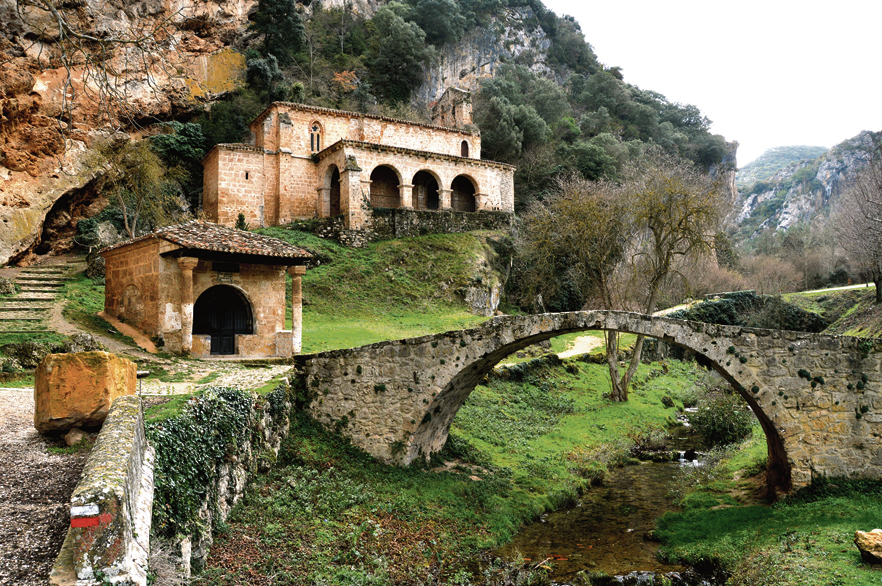
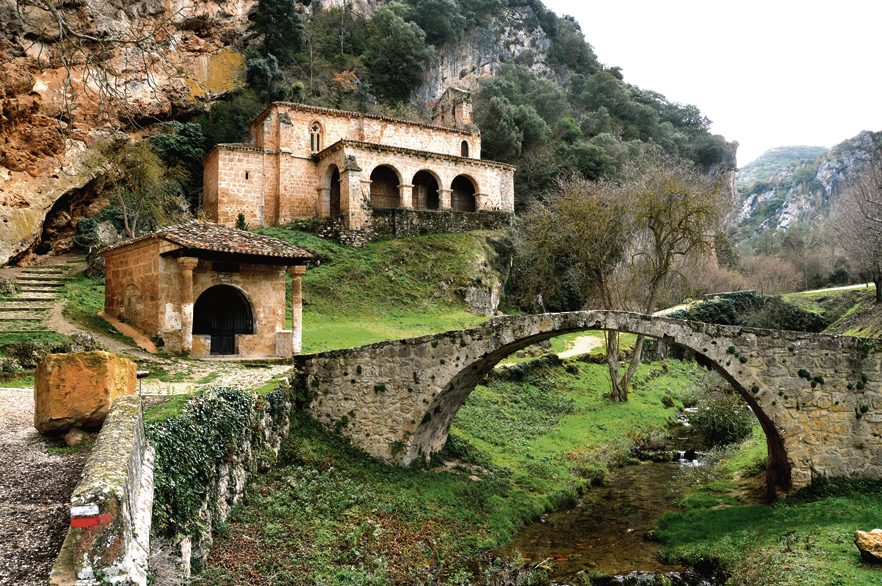
Usa las fotos reales de los cinco destinos
Las tarjetas de Frías, Tobera, la cascada de Pedrosa, Ojo Guareña y
Puentedey pasan de ilustración a fotografía.

Antes de entrar, las fotos se han preparado para la app:

- Frías venía cuadrada (2304×2304) y Puentedey en 4:3 y 6,9 MB. Las dos se
  recortan a 16:9 —en Frías dejando arriba la torre del castillo, en
  Puentedey quitando cielo para centrar el arco— y se reducen a 1600 px.
- Reencodadas a JPEG progresivo: de 3,0 MB y 6,9 MB a unos 410 KB cada una.
  Tobera baja de 746 a 176 KB. Las cinco suman ahora ~1,4 MB en lugar de 11.

Las ilustraciones SVG se quedan en el repo por si alguna foto se sustituye.
Caché del Service Worker a v11.

Pendiente: créditos de autor y licencia de cada foto en la pestaña Info.

Claude-Session: https://claude.ai/code/session_014aL5LEpVaLsFkLFnotR2uJ

diff --git a/data.js b/data.js
@@ -2,8 +2,8 @@
 // Los horarios son ORIENTATIVOS a propósito: la app los muestra como tales.
 // La única hora cerrada es el pase de la cueva-ermita de San Bernabé,
 // domingo 13 a las 11:30, que ya está pagado.
-// Las imágenes son ilustraciones propias (assets/images). Para usar fotos
-// reales basta con dejar el archivo en esa carpeta y cambiar aquí la ruta.
+// Las fotos están en assets/images. Las ilustraciones SVG originales siguen
+// en esa carpeta por si alguna foto se quiere sustituir.
 window.TRIP_DATA = {
   "trip": {
     "title": "Las Merindades en Familia",
@@ -38,7 +38,7 @@ window.TRIP_DATA = {
           "kind": "destino",
           "name": "Frías",
           "subtitle": "Aquí quedamos · mañana y lo que quede de tarde",
-          "image": "assets/images/frias.svg",
+          "image": "assets/images/frias.jpg",
           "time": "10:30 aprox.",
           "duration": "2 h + tarde",
           "intro": "Punto de encuentro del fin de semana y centro del día. La villa más pequeña de España, colgada sobre la peña de toba. Sin agenda: paseo, miradores y lo que apetezca.",
@@ -63,7 +63,7 @@ window.TRIP_DATA = {
           "id": "tobera",
           "kind": "destino",
           "name": "Tobera",
-          "image": "assets/images/tobera.svg",
+          "image": "assets/images/tobera.jpg",
           "subtitle": "A cinco minutos de Frías",
           "time": "11:45 aprox.",
           "duration": "1 - 1,5 h",
@@ -100,7 +100,7 @@ window.TRIP_DATA = {
           "kind": "destino",
           "name": "Cascada de Pedrosa de Tobalina",
           "subtitle": "Tarde opcional · lo decidimos en la comida",
-          "image": "assets/images/tobalina.svg",
+          "image": "assets/images/tobalina.webp",
           "time": "Media tarde, si apetece",
           "duration": "1,5 - 2 h",
           "intro": "El río Jerea se despeña unos 12 metros sobre una plataforma de roca de casi 100 metros de ancho, con una poza debajo que es zona de baño. A 25 minutos de Frías, al otro lado del valle.",
@@ -159,7 +159,7 @@ window.TRIP_DATA = {
           "kind": "destino",
           "name": "Ojo Guareña",
           "subtitle": "Cueva-ermita de San Bernabé · pase de las 11:30",
-          "image": "assets/images/ojoguarena.svg",
+          "image": "assets/images/ojoguarena.jpg",
           "time": "11:30 · entradas hechas",
           "duration": "45 min de visita",
           "intro": "Una ermita metida dentro de la roca, en uno de los mayores complejos kársticos de la península. Se recorren 400 metros de galerías y hay una proyección de 10 minutos.",
@@ -201,7 +201,7 @@ window.TRIP_DATA = {
           "id": "puentedey",
           "kind": "destino",
           "name": "Puentedey",
-          "image": "assets/images/puentedey.svg",
+          "image": "assets/images/puentedey.jpg",
           "time": "Después de comer",
           "duration": "1,5 h",
           "intro": "El pueblo se asienta sobre un puente natural que el río Nela excavó en la roca: 15 metros de alto, 34 de ancho y 75 de largo. Se ve desde arriba y desde abajo.",

diff --git a/sw.js b/sw.js
@@ -9,7 +9,7 @@
    - Estilos, imágenes e iconos: CACHÉ PRIMERO, revalidando en segundo plano.
    - Todo lo externo (Google Maps) va directo a la red y nunca se cachea. */
 
-const CACHE = 'merindades-v10';
+const CACHE = 'merindades-v11';
 
 const CORE = [
   './',
@@ -20,11 +20,11 @@ const CORE = [
   './manifest.json',
   './assets/images/hero.svg',
   './assets/images/mapa.svg',
-  './assets/images/tobalina.svg',
-  './assets/images/frias.svg',
-  './assets/images/tobera.svg',
-  './assets/images/puentedey.svg',
-  './assets/images/ojoguarena.svg',
+  './assets/images/frias.jpg',
+  './assets/images/tobera.jpg',
+  './assets/images/tobalina.webp',
+  './assets/images/ojoguarena.jpg',
+  './assets/images/puentedey.jpg',
   './assets/icons/icon.svg',
   './assets/icons/icon-192.png',
   './assets/icons/icon-512.png',

diff --git a/index.html b/index.html
@@ -13,7 +13,7 @@
   <link rel="manifest" href="manifest.json" />
   <link rel="icon" href="assets/icons/icon.svg" type="image/svg+xml" />
   <link rel="apple-touch-icon" href="assets/icons/icon-192.png" />
-  <link rel="stylesheet" href="styles.css?v=10" />
+  <link rel="stylesheet" href="styles.css?v=11" />
 </head>
 <body>
 
@@ -55,7 +55,7 @@
 
   <div class="toast" id="toast" hidden></div>
 
-  <script src="data.js?v=10"></script>
-  <script src="app.js?v=10"></script>
+  <script src="data.js?v=11"></script>
+  <script src="app.js?v=11"></script>
 </body>
 </html>

diff --git a/README.md b/README.md
@@ -43,15 +43,17 @@ Sin dependencias ni paso de compilación: se edita y se sube.
 
 ## Imágenes
 
-`assets/images/` contiene **ilustraciones propias en SVG** hechas para esta guía
-(Frías, Tobera, Tobalina, Puentedey, Ojo Guareña, el plano y la portada). Son placeholders de calidad,
-pensados para sustituirse por fotos reales cuando las tengáis:
+`assets/images/` contiene las **fotos de cada destino** (`frias.jpg`,
+`tobera.jpg`, `tobalina.webp`, `ojoguarena.jpg`, `puentedey.jpg`), recortadas
+a 16:9 y comprimidas para que entren en la caché offline sin engordar la app.
+La portada y el plano siguen siendo SVG propios, y las ilustraciones
+originales de cada destino se conservan por si se quiere volver a ellas.
 
-1. Deja la foto en `assets/images/` (por ejemplo `frias.jpg`, apaisada 16:9).
-2. Cambia la ruta en `data.js` (`"image": "assets/images/frias.jpg"`).
-3. Añádela a la lista `CORE` de `sw.js` para que también funcione sin conexión.
+Para cambiar una foto: deja el archivo en esa carpeta, actualiza la ruta en
+`data.js` y, si cambia el nombre, la lista `CORE` de `sw.js`.
 
-No se enlazan imágenes externas: todo se sirve desde el propio repositorio.
+**Pendiente:** falta añadir los créditos (autor y licencia) de cada
+fotografía en la pestaña Info.
 
 ## Editar el viaje
 
@@ -60,7 +62,7 @@ y coordenadas. Los horarios son deliberadamente orientativos
 (`10:30 aprox.`, `Después de comer`, `Según reserva`).
 
 Al publicar cambios, **sube la versión de caché** en `sw.js`
-(`merindades-v10` → `v11`) y el `?v=10` de `index.html`, para que los móviles
+(`merindades-v11` → `v12`) y el `?v=11` de `index.html`, para que los móviles
 que ya tengan la app instalada recojan la versión nueva.
 
 ## Publicar
